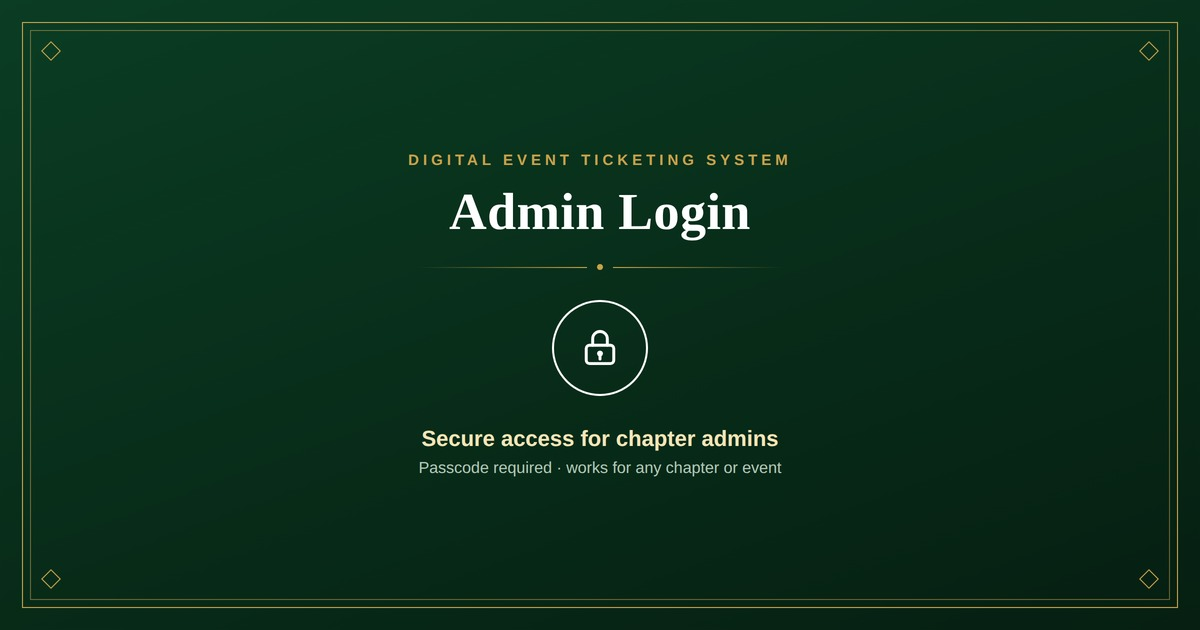
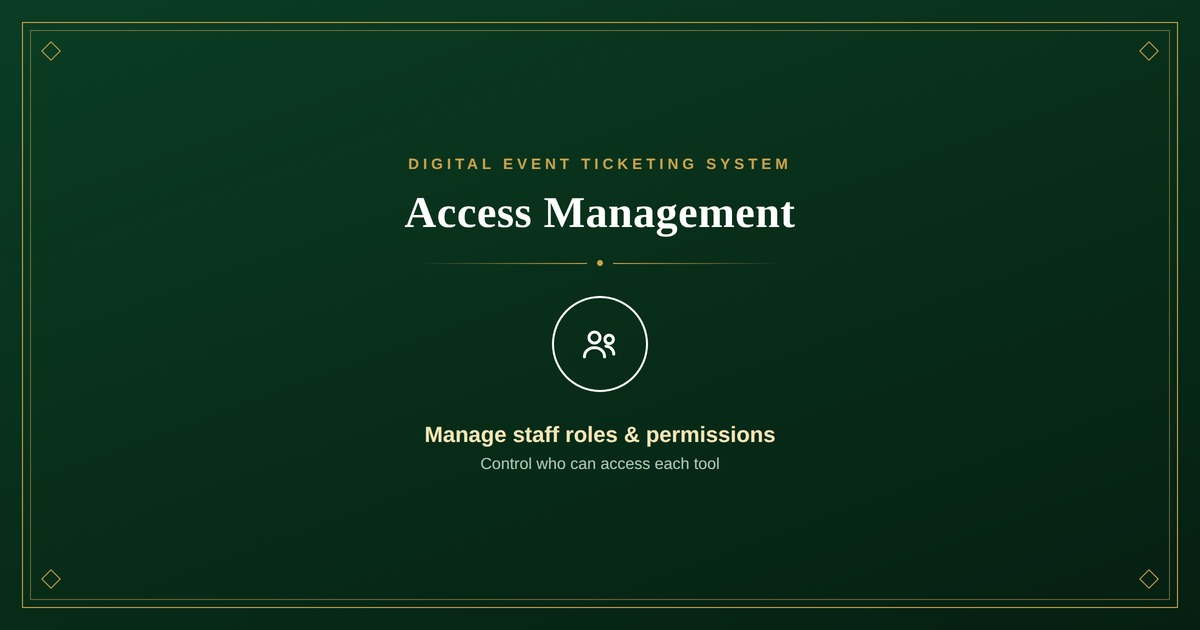
Update Ticket Designer v7.0.1 social previews and finalize page architecture

diff --git a/dashboard.html b/dashboard.html
@@ -7,22 +7,22 @@
 <meta name="referrer" content="no-referrer">
 <meta name="theme-color" content="#082c19">
 <meta name="description" content="Manage vouchers, check-in, walk-ins, and event reporting from the secure role-based staff dashboard.">
-<link rel="canonical" href="https://ticketdesigner.github.io/claim.html">
+<link rel="canonical" href="https://ticketdesigner.github.io/dashboard.html">
 <meta property="og:type" content="website">
 <meta property="og:site_name" content="Ticket Designer">
-<meta property="og:url" content="https://ticketdesigner.github.io/claim.html">
+<meta property="og:url" content="https://ticketdesigner.github.io/dashboard.html">
 <meta property="og:title" content="Staff Operations Dashboard | Ticket Designer">
 <meta property="og:description" content="Manage vouchers, check-in, walk-ins, and event reporting from the secure role-based staff dashboard.">
-<meta property="og:image" content="https://ticketdesigner.github.io/gate-og.jpg">
-<meta property="og:image:secure_url" content="https://ticketdesigner.github.io/gate-og.jpg">
+<meta property="og:image" content="https://ticketdesigner.github.io/dashboard-og.jpg">
+<meta property="og:image:secure_url" content="https://ticketdesigner.github.io/dashboard-og.jpg">
 <meta property="og:image:type" content="image/jpeg">
-<meta property="og:image:width" content="1536">
-<meta property="og:image:height" content="1024">
+<meta property="og:image:width" content="1200">
+<meta property="og:image:height" content="630">
 <meta property="og:image:alt" content="Ticket Designer staff operations dashboard">
 <meta name="twitter:card" content="summary_large_image">
 <meta name="twitter:title" content="Staff Operations Dashboard | Ticket Designer">
 <meta name="twitter:description" content="Manage vouchers, check-in, walk-ins, and event reporting from the secure role-based staff dashboard.">
-<meta name="twitter:image" content="https://ticketdesigner.github.io/gate-og.jpg">
+<meta name="twitter:image" content="https://ticketdesigner.github.io/dashboard-og.jpg">
 <meta name="twitter:image:alt" content="Ticket Designer staff operations dashboard">
 <title>Staff Operations Dashboard | Ticket Designer</title>
 <style>
@@ -752,7 +752,7 @@ async function loadBatch(batchId) {
         const actions = document.createElement('div');
         actions.className = 'voucher-actions';
 
-        const voucherUrl = `${window.location.origin}${window.location.pathname.replace(/[^/]*$/, 'v.html')}?voucher=${v.token}`;
+        const voucherUrl = `${window.location.origin}${window.location.pathname.replace(/[^/]*$/, 'claim.html')}?voucher=${v.token}`;
 
         const claimBtnEl = document.createElement('button');
         claimBtnEl.type = 'button';

diff --git a/designer.html b/designer.html
@@ -13,16 +13,16 @@
 <meta property="og:url" content="https://ticketdesigner.github.io/designer.html">
 <meta property="og:title" content="Ticket Designer | Event & Ticket Designer">
 <meta property="og:description" content="Design a new event ticket or update event details, ticket tiers, pricing, branding, capacity, and claim settings.">
-<meta property="og:image" content="https://ticketdesigner.github.io/config-og.jpg">
-<meta property="og:image:secure_url" content="https://ticketdesigner.github.io/config-og.jpg">
+<meta property="og:image" content="https://ticketdesigner.github.io/designer-og.jpg">
+<meta property="og:image:secure_url" content="https://ticketdesigner.github.io/designer-og.jpg">
 <meta property="og:image:type" content="image/jpeg">
-<meta property="og:image:width" content="1536">
-<meta property="og:image:height" content="1024">
+<meta property="og:image:width" content="1200">
+<meta property="og:image:height" content="630">
 <meta property="og:image:alt" content="Ticket Designer - create and configure event ticketing">
 <meta name="twitter:card" content="summary_large_image">
 <meta name="twitter:title" content="Ticket Designer | Event & Ticket Designer">
 <meta name="twitter:description" content="Design a new event ticket or update event details, ticket tiers, pricing, branding, capacity, and claim settings.">
-<meta name="twitter:image" content="https://ticketdesigner.github.io/config-og.jpg">
+<meta name="twitter:image" content="https://ticketdesigner.github.io/designer-og.jpg">
 <meta name="twitter:image:alt" content="Ticket Designer - create and configure event ticketing">
 <title>Ticket Designer | Event & Ticket Designer</title>
 <script src="https://cdnjs.cloudflare.com/ajax/libs/qrcodejs/1.0.0/qrcode.min.js"></script>

diff --git a/batch.html b/batch.html
@@ -13,8 +13,8 @@
 <meta property="og:url" content="https://ticketdesigner.github.io/batch.html">
 <meta property="og:title" content="Your Ticket Vouchers Are Ready | Ticket Designer">
 <meta property="og:description" content="Open this secure link to view your set of ticket vouchers and share each voucher with its recipient.">
-<meta property="og:image" content="https://ticketdesigner.github.io/distribution-og.jpg">
-<meta property="og:image:secure_url" content="https://ticketdesigner.github.io/distribution-og.jpg">
+<meta property="og:image" content="https://ticketdesigner.github.io/batch-og.jpg">
+<meta property="og:image:secure_url" content="https://ticketdesigner.github.io/batch-og.jpg">
 <meta property="og:image:type" content="image/jpeg">
 <meta property="og:image:width" content="1200">
 <meta property="og:image:height" content="630">
@@ -22,7 +22,7 @@
 <meta name="twitter:card" content="summary_large_image">
 <meta name="twitter:title" content="Your Ticket Vouchers Are Ready | Ticket Designer">
 <meta name="twitter:description" content="Open this secure link to view your set of ticket vouchers and share each voucher with its recipient.">
-<meta name="twitter:image" content="https://ticketdesigner.github.io/distribution-og.jpg">
+<meta name="twitter:image" content="https://ticketdesigner.github.io/batch-og.jpg">
 <meta name="twitter:image:alt" content="Ticket Voucher Distribution - secure voucher set sharing">
 <title>Your Ticket Vouchers Are Ready | Ticket Designer</title>
 <style>

diff --git a/claim.html b/claim.html
@@ -16,8 +16,8 @@
 <meta property="og:image" content="https://ticketdesigner.github.io/claim-og.jpg">
 <meta property="og:image:secure_url" content="https://ticketdesigner.github.io/claim-og.jpg">
 <meta property="og:image:type" content="image/jpeg">
-<meta property="og:image:width" content="1536">
-<meta property="og:image:height" content="1024">
+<meta property="og:image:width" content="1200">
+<meta property="og:image:height" content="630">
 <meta property="og:image:alt" content="Claim Your Ticket - secure digital ticket voucher">
 <meta name="twitter:card" content="summary_large_image">
 <meta name="twitter:title" content="Claim Your Ticket | Ticket Designer">
@@ -750,7 +750,7 @@ async function loadBatch(batchId) {
         const actions = document.createElement('div');
         actions.className = 'voucher-actions';
 
-        const voucherUrl = `${window.location.origin}${window.location.pathname.replace(/[^/]*$/, 'v.html')}?voucher=${v.token}`;
+        const voucherUrl = `${window.location.origin}${window.location.pathname.replace(/[^/]*$/, 'claim.html')}?voucher=${v.token}`;
 
         const claimBtnEl = document.createElement('button');
         claimBtnEl.type = 'button';

diff --git a/admin.html b/admin.html
@@ -16,8 +16,8 @@
 <meta property="og:image" content="https://ticketdesigner.github.io/admin-og.jpg">
 <meta property="og:image:secure_url" content="https://ticketdesigner.github.io/admin-og.jpg">
 <meta property="og:image:type" content="image/jpeg">
-<meta property="og:image:width" content="1536">
-<meta property="og:image:height" content="1024">
+<meta property="og:image:width" content="1200">
+<meta property="og:image:height" content="630">
 <meta property="og:image:alt" content="Admin Control Center - secure event ticketing administration">
 <meta name="twitter:card" content="summary_large_image">
 <meta name="twitter:title" content="Admin Control Center | Ticket Designer">

diff --git a/index.html b/index.html
@@ -16,6 +16,8 @@
 <meta property="og:image" content="https://ticketdesigner.github.io/admin-og.jpg">
 <meta property="og:image:secure_url" content="https://ticketdesigner.github.io/admin-og.jpg">
 <meta property="og:image:type" content="image/jpeg">
+<meta property="og:image:width" content="1200">
+<meta property="og:image:height" content="630">
 <meta property="og:image:alt" content="Ticket Designer secure staff and administrator portal">
 <meta name="twitter:card" content="summary_large_image">
 <meta name="twitter:title" content="Ticket Designer | Staff & Administrator Portal">

diff --git a/README.md b/README.md
@@ -9,7 +9,6 @@ This package is a clean starting point built from the uploaded current system an
 - `admin.html` — System Owner user/role management
 - `batch.html?batch=...` — public secure voucher-set distribution
 - `claim.html?voucher=...` — single voucher claim
-- `v.html` — compatibility redirect only; no new links should use it
 
 ## Fresh Google Sheets
 1. Import `TicketDesigner_Regional_Config_v7.xlsx` into a NEW Google Sheet.
@@ -30,10 +29,10 @@ With an empty Events table, an authorized System Owner, Regional Admin, or Chapt
 
 ## Social previews
 - `/` → `admin-og.jpg`
-- `dashboard.html` → `gate-og.jpg`
-- `designer.html` → `config-og.jpg`
+- `dashboard.html` → `dashboard-og.jpg`
+- `designer.html` → `designer-og.jpg`
 - `admin.html` → `admin-og.jpg`
-- `batch.html` → `distribution-og.jpg`
+- `batch.html` → `batch-og.jpg`
 - `claim.html` → `claim-og.jpg`
 
 ## Important
